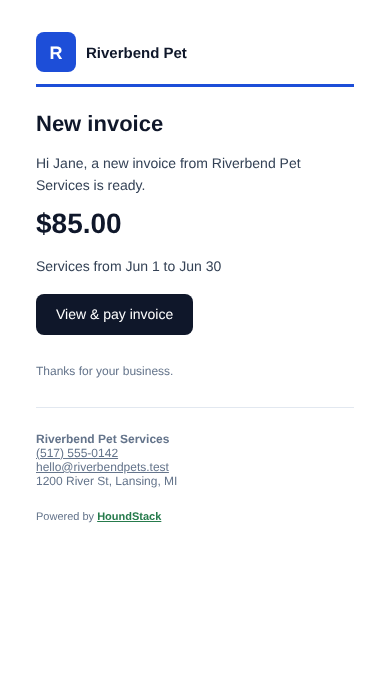
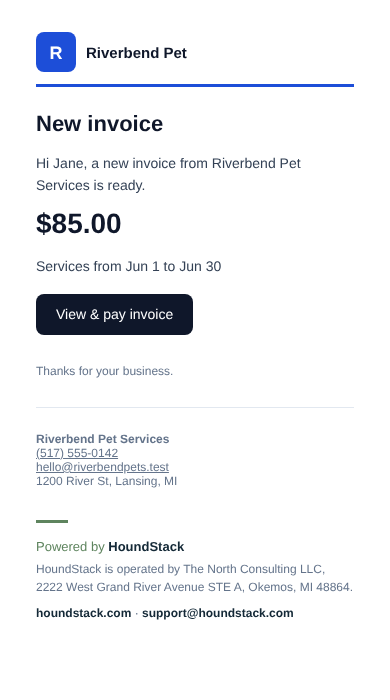
email: a finished Powered by HoundStack close on tenant mail (#577)
Tenant mail and the weekly digest closed on an 11px line. They now close
with the same pieces as the footer under system mail, left-aligned under
the business's own contact lines: a short sage rule, Powered by
HoundStack (sage and navy, linked), the operator line, and
houndstack.com and support@houndstack.com. TenantHeader is unchanged, so
tenant mail still opens as the business.

The sage rule and reach links are shared with the system footer. Tests
pin the close on every tenant template and on the digest. Tenant and
digest after screenshots are re-rendered at 600 and 390.

Changed region(s): [[0.0923, 0.72, 0.8923, 0.9], [0.0923, 0.87, 0.3385, 0.9]]

diff --git a/src/lib/email-templates/_brand.tsx b/src/lib/email-templates/_brand.tsx
@@ -146,7 +146,7 @@ export function SystemHeader() {
 /** Bottom of every system email. `note` is the email's own last line (why
  *  it was sent, how to stop it), printed above the operator line.
  *  `poweredBy` is for system mail that carries a business's header (the
- *  weekly digest): the HoundStack line then reads "Powered by HoundStack".
+ *  weekly digest): it closes with PoweredByHoundStack, as tenant mail does.
  *  `onCanvas` is for mail laid out as a card on the grey canvas: the footer
  *  sits below the card, inset to line up with the card's text, with no rule
  *  of its own because the card's edge already is one. */
@@ -160,6 +160,29 @@ export function SystemFooter({
   onCanvas?: boolean;
 }) {
   if (onCanvas) return <CanvasFooter note={note} />;
+  if (poweredBy) {
+    // The weekly digest: system mail about a business. Its note, then the
+    // same close tenant mail ends with.
+    return (
+      <>
+        <table
+          role="presentation"
+          cellPadding={0}
+          cellSpacing={0}
+          style={{ ...table, margin: "32px 0 0", borderTop: `1px solid ${BRAND.rule}` }}
+        >
+          <tbody>
+            {note ? (
+              <tr>
+                <td style={{ ...small, padding: "16px 0 0" }}>{note}</td>
+              </tr>
+            ) : null}
+          </tbody>
+        </table>
+        <PoweredByHoundStack />
+      </>
+    );
+  }
   return (
     <table
       role="presentation"
@@ -182,16 +205,7 @@ export function SystemFooter({
               color: BRAND.navy,
             }}
           >
-            {poweredBy ? (
-              <>
-                Powered by{" "}
-                <a href={HOUNDSTACK_URL} style={{ color: BRAND.green }}>
-                  {APP_NAME}
-                </a>
-              </>
-            ) : (
-              APP_NAME
-            )}
+            {APP_NAME}
           </td>
         </tr>
         <tr>
@@ -203,6 +217,49 @@ export function SystemFooter({
 }
 
 const footerLink = { color: BRAND.navy, textDecoration: "none", fontWeight: "bold" as const };
+
+/** The short sage rule that opens every HoundStack close, system or tenant. */
+function SageRule({ centred }: { centred?: boolean }) {
+  return (
+    <table
+      role="presentation"
+      cellPadding={0}
+      cellSpacing={0}
+      style={centred ? { margin: "0 auto" } : { margin: 0 }}
+    >
+      <tbody>
+        <tr>
+          <td
+            style={{
+              width: "32px",
+              height: "3px",
+              backgroundColor: BRAND.sage,
+              fontSize: 0,
+              lineHeight: 0,
+            }}
+          >
+            &nbsp;
+          </td>
+        </tr>
+      </tbody>
+    </table>
+  );
+}
+
+/** Where to reach HoundStack. */
+function ReachLinks() {
+  return (
+    <>
+      <a href={HOUNDSTACK_URL} style={footerLink}>
+        houndstack.com
+      </a>
+      {"  ·  "}
+      <a href={`mailto:${SUPPORT_EMAIL}`} style={footerLink}>
+        {SUPPORT_EMAIL}
+      </a>
+    </>
+  );
+}
 
 /** The footer under a system email's card: the email's own note, a short
  *  sage rule, the HoundStack name, the operator line and where to reach
@@ -226,23 +283,7 @@ function CanvasFooter({ note }: { note?: React.ReactNode }) {
         ) : null}
         <tr>
           <td align="center" style={{ padding: "0 0 16px" }}>
-            <table role="presentation" cellPadding={0} cellSpacing={0} style={{ margin: "0 auto" }}>
-              <tbody>
-                <tr>
-                  <td
-                    style={{
-                      width: "32px",
-                      height: "3px",
-                      backgroundColor: BRAND.sage,
-                      fontSize: 0,
-                      lineHeight: 0,
-                    }}
-                  >
-                    &nbsp;
-                  </td>
-                </tr>
-              </tbody>
-            </table>
+            <SageRule centred />
           </td>
         </tr>
         <tr>
@@ -257,13 +298,7 @@ function CanvasFooter({ note }: { note?: React.ReactNode }) {
         </tr>
         <tr>
           <td style={{ ...centred, padding: "10px 0 0" }}>
-            <a href={HOUNDSTACK_URL} style={footerLink}>
-              houndstack.com
-            </a>
-            {"  ·  "}
-            <a href={`mailto:${SUPPORT_EMAIL}`} style={footerLink}>
-              {SUPPORT_EMAIL}
-            </a>
+            <ReachLinks />
           </td>
         </tr>
       </tbody>
@@ -399,22 +434,45 @@ export function TenantHeader({ orgName, orgLogoUrl, orgBrandColor }: TenantBrand
   );
 }
 
-/** Last line of every email sent as a business. */
+/**
+ * The close of every email sent as a business, and of the weekly digest
+ * (#577). The business's own name and contact lines come first (OrgFooter);
+ * this follows them as its own block, left-aligned like the rest of the
+ * email: a short sage rule, "Powered by HoundStack", the operator line, and
+ * where to reach HoundStack. The same pieces, in the same order, as the
+ * footer under system mail, so the two read as one family.
+ */
 export function PoweredByHoundStack() {
   return (
     <table
       role="presentation"
       cellPadding={0}
       cellSpacing={0}
-      style={{ ...table, margin: "20px 0 0" }}
+      style={{ ...table, margin: "32px 0 0" }}
     >
       <tbody>
         <tr>
-          <td style={{ ...small, fontSize: "11px" }}>
+          <td style={{ padding: "0 0 14px" }}>
+            <SageRule />
+          </td>
+        </tr>
+        <tr>
+          <td style={{ ...small, fontSize: "13px", color: BRAND.sage }}>
             Powered by{" "}
-            <a href={HOUNDSTACK_URL} style={{ color: BRAND.green, fontWeight: "bold" as const }}>
+            <a
+              href={HOUNDSTACK_URL}
+              style={{ color: BRAND.navy, fontWeight: "bold" as const, textDecoration: "none" }}
+            >
               {APP_NAME}
             </a>
+          </td>
+        </tr>
+        <tr>
+          <td style={{ ...small, padding: "4px 0 0" }}>{OPERATOR_LINE}</td>
+        </tr>
+        <tr>
+          <td style={{ ...small, padding: "8px 0 0" }}>
+            <ReachLinks />
           </td>
         </tr>
       </tbody>

diff --git a/tests/every-email-says-who-sent-it.test.tsx b/tests/every-email-says-who-sent-it.test.tsx
@@ -62,6 +62,18 @@ describe("mail sent as a business", () => {
     expect(out).toMatch(/Powered by(<!-- -->)?\s*<a[^>]*>HoundStack<\/a>/);
   });
 
+  it.each(TENANT)("%s closes with the full HoundStack block, not a bare line", async (name) => {
+    const t = TEMPLATES[name];
+    const out = await html(t.component, { ...(t.previewData ?? {}), ...brand });
+    const close = out.slice(out.lastIndexOf("background-color:#5e845e"));
+    expect(close).toMatch(/Powered by(<!-- -->)?\s*<a[^>]*>HoundStack<\/a>/);
+    expect(close).toContain(OPERATOR_LINE);
+    expect(close).toContain('href="https://houndstack.com"');
+    expect(close).toContain('href="mailto:support@houndstack.com"');
+    // The business still opens the email: no HoundStack band on tenant mail.
+    expect(out).not.toContain("background-color:#142937");
+  });
+
   it("falls back to the name over HoundStack green with no logo or colour", async () => {
     const t = TEMPLATES["payment-received"];
     const out = await html(t.component, { ...t.previewData, orgName: "Riverbend Pet Services" });
@@ -200,6 +212,8 @@ describe("the weekly digest", () => {
     expect(out).toContain("3px solid #7c3aed");
     expect(out).toMatch(/Powered by(<!-- -->)?\s*<a[^>]*>HoundStack<\/a>/);
     expect(out).toContain(OPERATOR_LINE);
+    expect(out).toContain("background-color:#5e845e");
+    expect(out).toContain('href="mailto:support@houndstack.com"');
     expect(out).toContain("Settings → Emails");
   });
 
